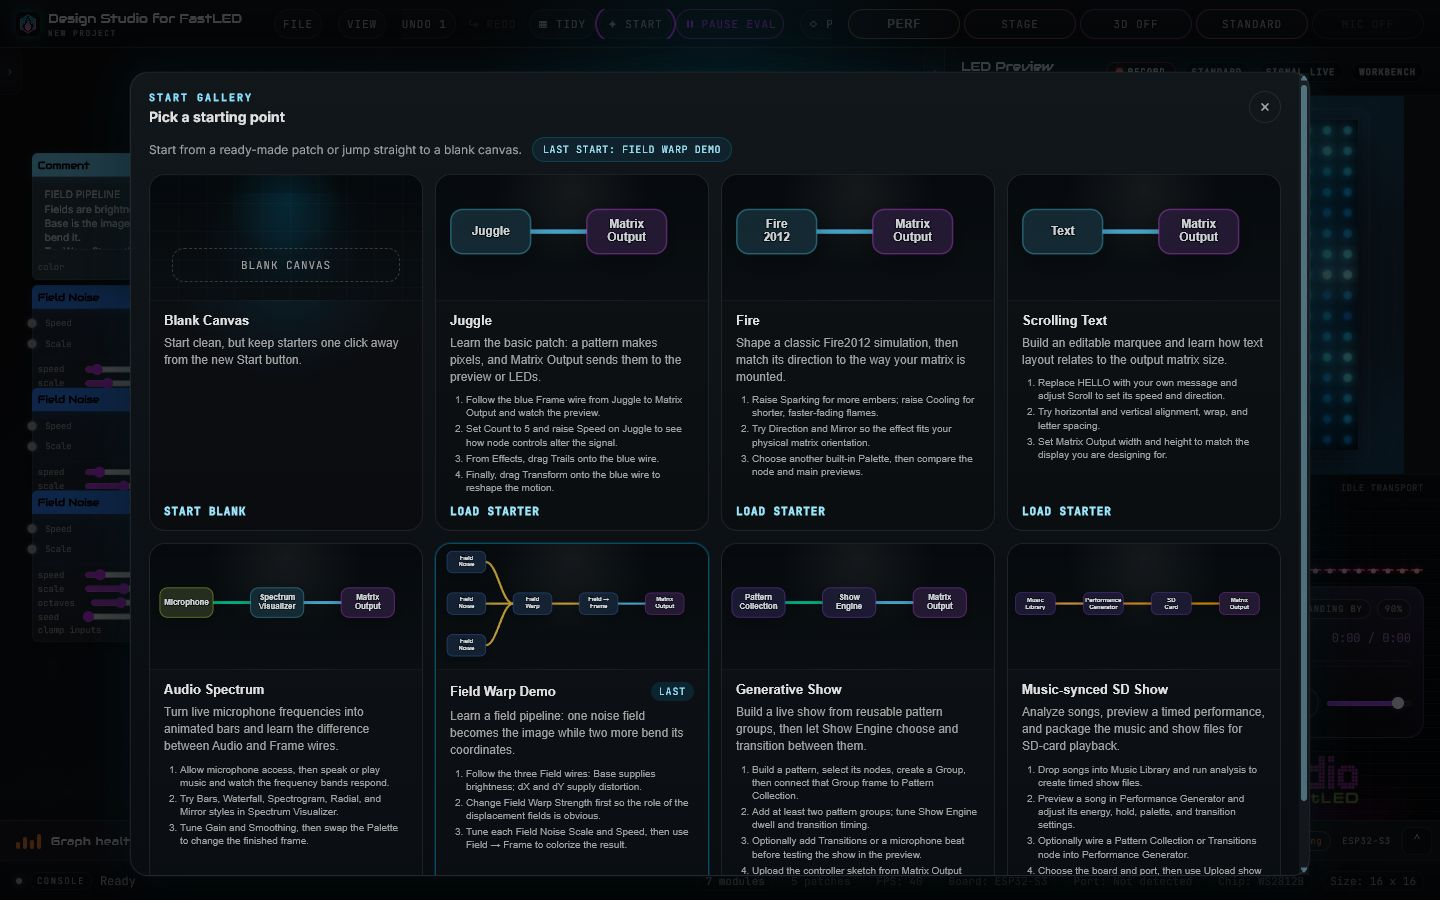
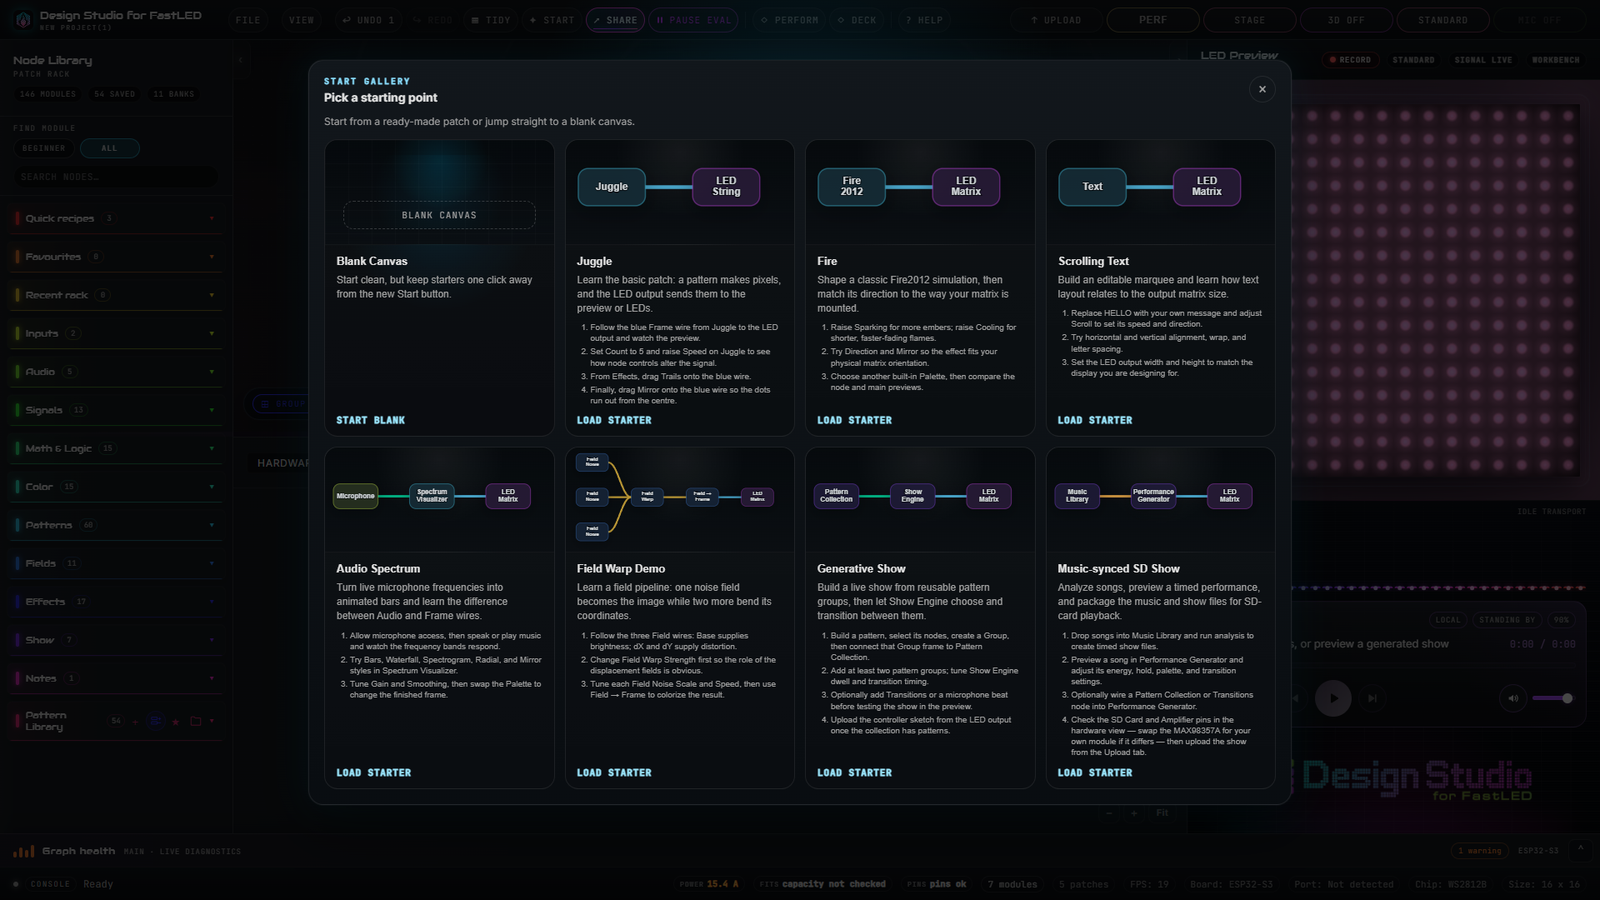
refresh LED Matrix documentation

diff --git a/src/components/HelpModal/HelpModal.tsx b/src/components/HelpModal/HelpModal.tsx
@@ -3,7 +3,8 @@ import { useUiStore } from '../../state/uiStore'
 import styles from './HelpModal.module.css'
 import NodeReference from './NodeReference'
 import type { HelpTab } from '../../state/uiStore'
-import firstPatchScreenshot from '../../../docs/images/readme/design-studio-patch.png'
+
+const FIRST_PATCH_IMAGE = '/node-cards/graphs/juggle.svg'
 
 const TABS: { id: HelpTab; label: string }[] = [
   { id: 'quickstart', label: 'Quick Start' },
@@ -119,11 +120,11 @@ function QuickStartTab() {
         <figure className={styles.helpFigure}>
           <img
             className={styles.helpImage}
-            src={firstPatchScreenshot}
-            alt="The Design Studio workspace: a Juggle node wired into the LED output on the canvas, a Comment node holding the tutorial steps, and the live LED preview on the right"
+            src={FIRST_PATCH_IMAGE}
+            alt="A Juggle node wired into the LED output, ending at an LED Matrix"
           />
           <figcaption>
-            The starter patch as it arrives: Juggle feeds the LED output, the Comment node carries the steps to try, and LED Preview confirms the result on the right.
+            The Juggle reference graph: Juggle feeds the LED Matrix through a complete cyan frame path.
           </figcaption>
         </figure>
       </div>

diff --git a/docs/development/design/node-reference-layout.md b/docs/development/design/node-reference-layout.md
@@ -35,7 +35,7 @@ The help modal keeps a fixed node-library directory on the left and a scrollable
 - Generated visuals must use the real node data and property defaults, not a
   synthetic recreation of the library.
 - The example graph for a node should stay tidy and keep all nodes fully
-  visible, including Matrix Output when it is part of the example.
+  visible, including LED Matrix when it is part of the example.
 - Prefer a useful, representative preview frame over an idle/black result.
 - Audio examples may use:
   `C:\Users\User\Downloads\Organic Soup - Old Timers - 2017 - MP3 (1)\01 - Organic Soup - Old Timers (2016 Edit).mp3`
@@ -56,8 +56,8 @@ The help modal keeps a fixed node-library directory on the left and a scrollable
 The action must:
 
 - add the example beside the current work without replacing the graph;
-- reuse singleton Microphone and Matrix Output nodes when present;
-- never replace an occupied input noodle (show a status message when the final Matrix Output connection is skipped);
+- reuse singleton Microphone and LED Matrix nodes when present;
+- never replace an occupied input noodle (show a status message when the final LED Matrix connection is skipped);
 - add the graph in one store update and collapse React Flow measurements into one undo step;
 - close Help, reveal the preview, enable a useful test signal where appropriate, and frame the example nodes;
 - report the result in the status bar.
@@ -68,9 +68,9 @@ The Microphone pilot is covered by `src/utils/__tests__/insertLiveExample.test.t
 
 The approved example is:
 
-`Microphone → FFT Analyzer → Spectrum Bars → Matrix Output`
+`Microphone → FFT Analyzer → Spectrum Bars → LED Matrix`
 
-Microphone feeds live audio to FFT Analyzer. FFT separates bass, mids, and treble; those values drive Spectrum Bars, whose frame is sent to Matrix Output. The Main Preview shows the resulting mirrored rainbow spectrum.
+Microphone feeds live audio to FFT Analyzer. FFT separates bass, mids, and treble; those values drive Spectrum Bars, whose frame is sent to LED Matrix. The Main Preview shows the resulting mirrored rainbow spectrum.
 
 ## Rollout status — complete
 

diff --git a/docs/development/design/board-node-architecture.md b/docs/development/design/board-node-architecture.md
@@ -38,7 +38,7 @@ Exactly one Board node per graph. This is not a new constraint — it is an
 existing one becoming visible. `selectedFqbn` is already a single scalar on
 `uploadStore` mirrored into `projectStore.uploadTarget`, and
 [`outputRouting.ts`](../../../src/state/outputRouting.ts) has no board awareness
-at all. Multiple Matrix Outputs have always meant multiple routes on one
+at all. Multiple LED outputs have always meant multiple routes on one
 controller, which is what codegen emits: one sketch, one `FastLED.show()`.
 
 The node selects a **board profile**, not an FQBN. This matters: `esp32:esp32:esp32`
@@ -140,7 +140,7 @@ scales are too far apart for one control.
 
 ### Outputs attach to the board, and no other wires are added
 
-Matrix Output continues to take a `frame` and gains a `route` output that plugs
+The LED output continues to take a `frame` and gains a `route` output that plugs
 into the Board node. One new data type, one legal hop, fixture to board only.
 
 This keeps `frame` meaning pixel data everywhere. It also makes "three panels on
@@ -155,14 +155,14 @@ Rejected: power and data wires on the canvas. The build diagram is the physical
 view; duplicating it in the node graph would tax every user with two edge kinds
 that mean different things.
 
-### What moves off Matrix Output, and what stays
+### What moves off the LED output, and what stays
 
 Moves: the board target and the PSRAM options. These are board-scoped and
 already sit awkwardly — the PSRAM toggle is rendered outside the generic property
 list precisely because its visibility depends on the selected board.
 
 Stays: everything genuinely about the panel — size, chipset, colour order,
-layout, tiling, brightness, correction. Matrix Output is deliberately
+layout, tiling, brightness, correction. The LED output is deliberately
 multi-instance, and three panels legitimately have three sizes.
 
 The Board node joins `GROUP_EXCLUDED_TYPES` alongside `MatrixOutput`, `MicInput`

diff --git a/README.md b/README.md
@@ -34,11 +34,11 @@ The Start Gallery includes guided patches for Juggle, Fire, scrolling text, live
 
 ![The full-screen Start Gallery with beginner, audio, field, and show templates](docs/images/readme/design-studio-start-gallery.png)
 
-The first patch is deliberately simple: a live Juggle pattern flows into LED Output. Change a few controls, splice an effect directly into the wire, and the preview responds immediately.
+The starter patches are deliberately simple: a pattern flows into an LED output. Change a few controls, splice an effect directly into the wire, and the preview responds immediately.
 
 | Build and preview a patch | Browse and collect reusable patterns |
 | --- | --- |
-| ![A Juggle patch driving the live LED matrix](docs/images/readme/design-studio-patch.png) | ![The Pattern Library open beside a live Field Warp patch](docs/images/readme/design-studio-pattern-library.png) |
+| ![A Fire 2012 patch driving an LED Matrix](docs/images/readme/design-studio-patch.png) | ![The Pattern Library open beside a live Field Warp patch and LED Matrix hardware](docs/images/readme/design-studio-pattern-library.png) |
 
 ## Put the visuals center stage
 

diff --git a/docs/release/beta-hardware-validation.md b/docs/release/beta-hardware-validation.md
@@ -2,12 +2,12 @@
 
 Design Studio for FastLED's public beta can use opt-in community reports to expand the
 hardware support matrix without treating an unverified configuration as
-supported. The Matrix Output **Upload...** panel identifies the missing evidence
+supported. The LED output **Upload...** panel identifies the missing evidence
 for the current board, engine, LED target, layout, and graph features.
 
 ## Tester flow
 
-1. Configure Matrix Output and run the relevant hardware action.
+1. Configure the LED output and run the relevant hardware action.
 2. After a successful action, Studio offers the validation report when the
    configuration still has a known coverage gap. **Review tests...** keeps the
    report available manually at any time.

diff --git a/docs/release/accessibility-smoke-test.md b/docs/release/accessibility-smoke-test.md
@@ -31,7 +31,7 @@ Do not use a mouse or touchpad during this pass.
    compatible destination port, and press Enter or Space to finish it.
 6. Focus a node and verify selection, arrow-key movement, property editing,
    undo/redo, deletion, and Escape behavior.
-7. Open Matrix Output Setup and Upload Tools. Verify initial focus, forward and
+7. Open LED output Setup and Upload Tools. Verify initial focus, forward and
    reverse focus trapping, Escape-to-close, and focus restoration.
 8. Select the supported board and port, read the upload-readiness result, and
    export a sketch. If the validation machine has the supported hardware,

diff --git a/docs/development/design/hub75-output.md b/docs/development/design/hub75-output.md
@@ -166,7 +166,7 @@ Scoped to a **single** `MatrixOutput` route, `layout: 'matrix'` or a
 supersampling. `findHub75ConfigErrors`/`findHub75ConfigIssues` in
 `validateGraph.ts` (renamed from the earlier blanket
 `findUnimplementedChipsetErrors`) allow that supported shape and block every
-other combination — multiple Matrix Output routes, an unsupported layout,
+other combination — multiple LED output routes, an unsupported layout,
 non-square `90°/270°` quarter-turns, or supersampling — each with its own
 message. All
 **five** sketch generators that share these hardware helpers now have real

diff --git a/docs/development/design/generative-pattern-show.md b/docs/development/design/generative-pattern-show.md
@@ -45,7 +45,7 @@ Three distinct concepts (Library ≠ Collection):
 ```
 [Library]  --drag-->  (pattern groups on canvas)
                               |
-                     Collection node  --patternset-->  Pattern Master  --frame-->  Matrix Output
+                     Collection node  --patternset-->  Pattern Master  --frame-->  LED Matrix
                               ^                              ^
                        (absorbs patterns)            (transition pool + triggers)
 ```

diff --git a/docs/release/beta-support-matrix.md b/docs/release/beta-support-matrix.md
@@ -185,7 +185,7 @@ PR before promoting it here:
 
 ## Community beta reports
 
-The Matrix Output **Upload...** panel includes an opt-in **Beta hardware
+The LED output **Upload...** panel includes an opt-in **Beta hardware
 coverage** report. It compares the current target and graph features with the
 recorded rows above, requests explicit Pass/Fail/Not tested observations, shows
 the complete payload, and only then offers Copy, JSON download, or a pre-filled

diff --git a/docs/development/design/hardware-nodes.md b/docs/development/design/hardware-nodes.md
@@ -51,7 +51,7 @@ user says what they are flashing.
 
 ### The graph still ends at the output node
 
-A frame plugs into an LED output exactly as it plugs into Matrix Output today.
+A frame plugs into an LED output exactly as it plugs into the LED Matrix today.
 Codegen, `outputRouting` and the composition canvas are unchanged.
 
 Rejected: the frame terminating at the Board. It would need one frame input per
